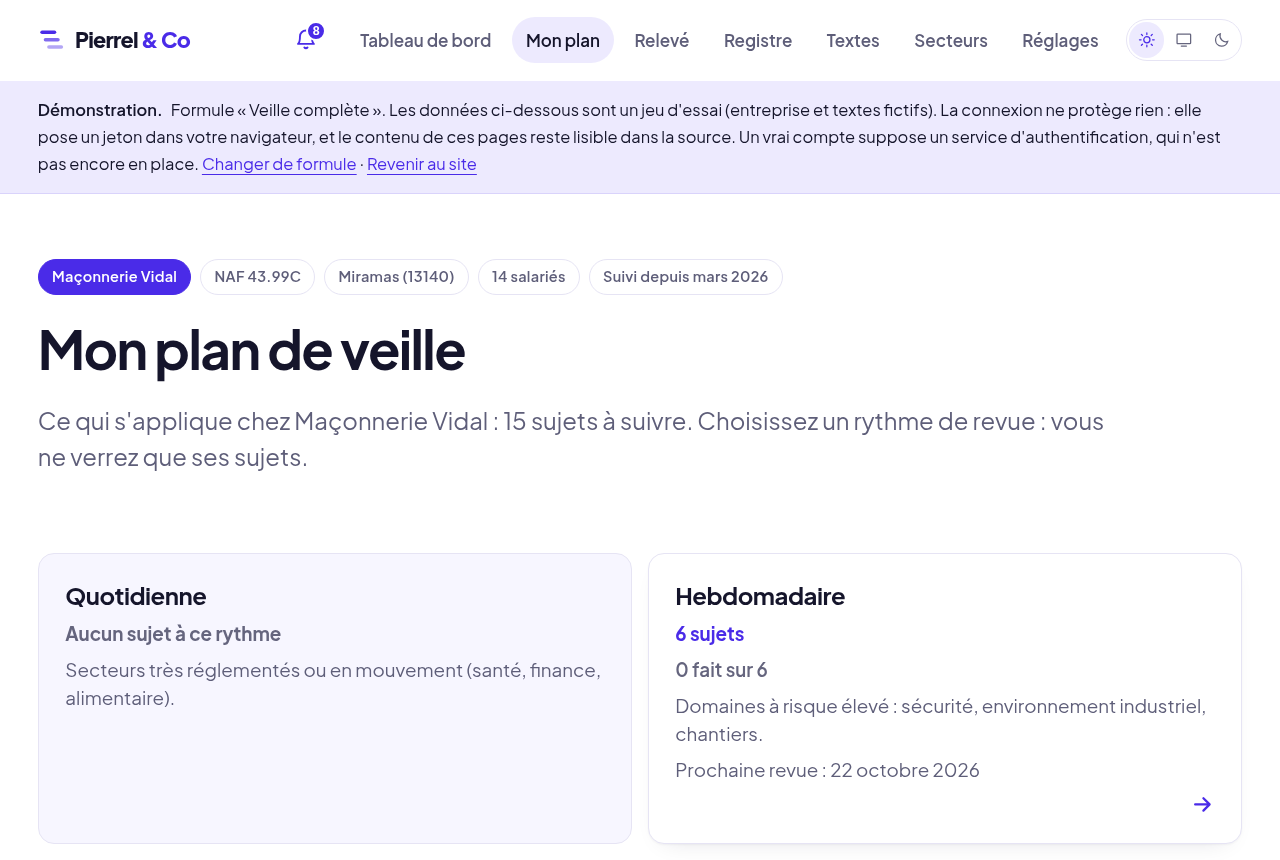
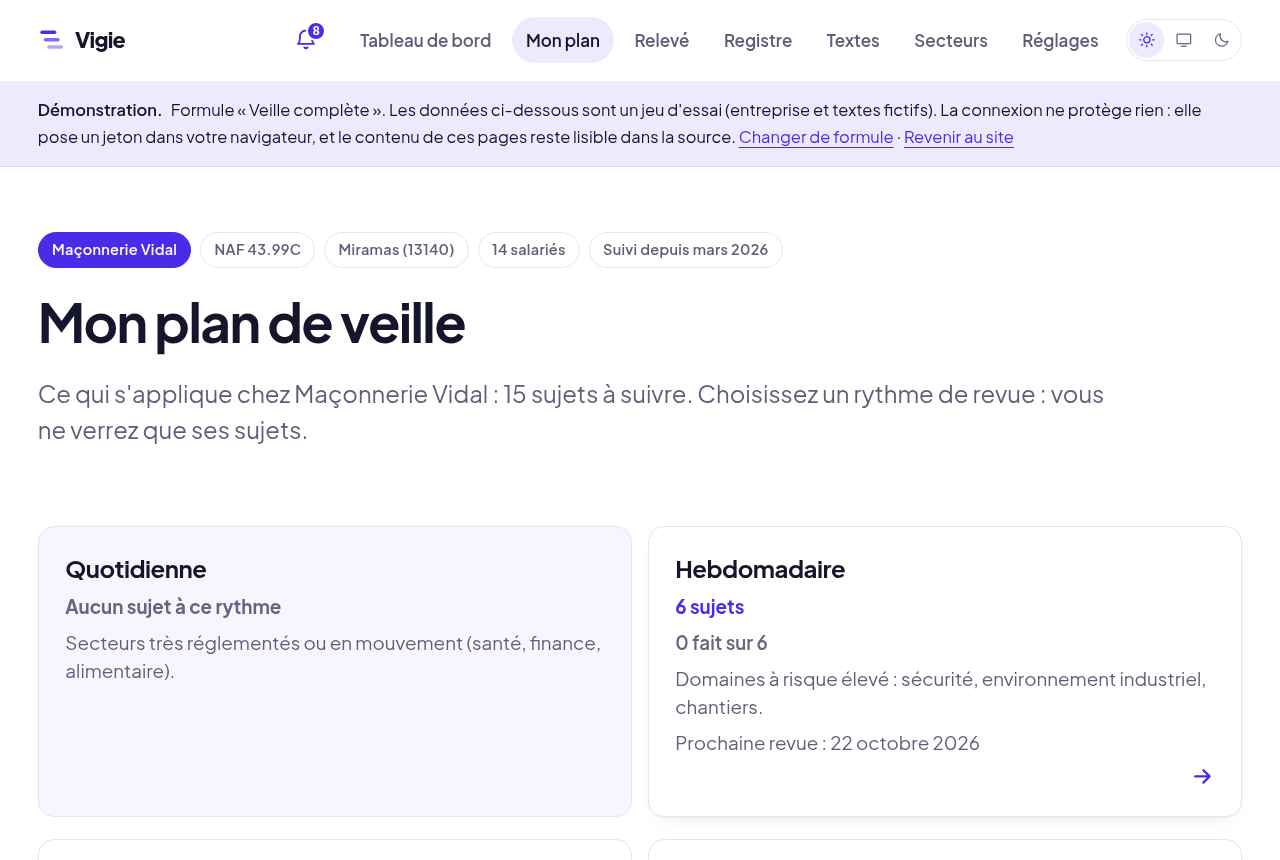
Lot 8 : le produit s'appelle Vigie ; l'offre consultant est en ligne
- SITE.nom devient « Vigie » ; Pierrel & Co (SITE.societe) n'est plus que
  l'éditeur, cité dans les pages légales, « Qui sommes-nous » et la FAQ, et
  marqué « société en cours de création ».
- Plus aucune présentation de cabinet : ni Istres, ni zone d'intervention,
  ni « conseil en organisation ». La caution métier est la personne :
  « conçu avec Clément Pierrel, consultant QSE et HSE en exercice ».
- Logo écrit (motMarque), application installée, captures de l'accueil,
  courriels du serveur (NOM, vérifié contre SITE.nom à la construction).
- L'offre consultant est allumée : consultants.html, le bloc de l'accueil, le
  lien du pied. Ses promesses à venir sont écrites au futur (contrat, base).

Claude-Session: https://claude.ai/code/session_018eHCodhqxxzNvWMueTAwHN

diff --git a/functions/api/oubli.js b/functions/api/oubli.js
@@ -5,7 +5,7 @@
    inconnu quelles adresses ont un compte. */
 import {
   lireJson, json, normaliseAdresse, adresseValide, lireCompte, estAdmin,
-  creeJeton, tropDeLiens, envoieCourriel, courrielPossible
+  creeJeton, tropDeLiens, envoieCourriel, courrielPossible, NOM
 } from "../../serveur/compte.mjs";
 
 const REPONSE = "Si un compte existe pour cette adresse, un courriel vient de partir avec un lien valable une heure. Pensez à regarder dans les indésirables.";
@@ -25,7 +25,7 @@ export async function onRequestPost(ctx) {
   try {
     await envoieCourriel(ctx.env, {
       a: adresse,
-      sujet: admin ? "Votre mot de passe administrateur — Pierrel & Co" : "Votre nouveau mot de passe — Pierrel & Co",
+      sujet: admin ? `Votre mot de passe administrateur — ${NOM}` : `Votre nouveau mot de passe — ${NOM}`,
       texte: `Bonjour,\n\nVous avez demandé à choisir un ${admin ? "mot de passe administrateur" : "nouveau mot de passe"} pour ${adresse}. Le lien ci-dessous est valable une heure, et ne sert qu'une fois.\n\nSi vous n'avez rien demandé, ignorez ce courriel : votre mot de passe actuel ne change pas.`,
       lien, bouton: "Choisir mon mot de passe"
     });

diff --git a/assets/entreprise.js b/assets/entreprise.js
@@ -1,5 +1,5 @@
 /* ==========================================================================
-   Pierrel & Co — mon entreprise, et mes alertes
+   Vigie — mon entreprise, et mes alertes
    --------------------------------------------------------------------------
    Ce que le visiteur saisit est gardé dans SON navigateur, et nulle part
    ailleurs : il n'y a pas de serveur. Rien n'est transmis, rien n'est partagé
@@ -463,7 +463,7 @@
           (champs.pdf.checked
             ? '<p class="courriel-pj">📎 2 fiches jointes, en PDF, prêtes à classer.</p>'
             : "") +
-          "<p>— Pierrel &amp; Co</p>" +
+          "<p>— " + echappe(document.body.getAttribute("data-nom") || "") + "</p>" +
         "</div>" +
         '<p class="courriel-pied">Envoi ' + echappe(quand) + " · " + echappe(seuil.toLowerCase()) + "</p>";
     }

diff --git a/assets/app.js b/assets/app.js
@@ -1,5 +1,5 @@
 /* ==========================================================================
-   Pierrel & Co — comportements de page
+   Vigie — comportements de page
    --------------------------------------------------------------------------
    Deux règles tenues partout :
    - sans ce fichier, le site reste complet et lisible. Les décalages de départ
@@ -499,7 +499,7 @@
       ].join("\n");
       merci.hidden = false;
       window.location.href = "mailto:" + adresse + "?subject=" +
-        encodeURIComponent("Mon avis sur Pierrel & Co") + "&body=" + encodeURIComponent(corps);
+        encodeURIComponent("Mon avis sur " + (document.body.getAttribute("data-nom") || "")) + "&body=" + encodeURIComponent(corps);
     });
   }
 

diff --git a/assets/amorce.js b/assets/amorce.js
@@ -1,5 +1,5 @@
 /* ==========================================================================
-   Pierrel & Co — l'amorce, avant tout rendu
+   Vigie — l'amorce, avant tout rendu
    --------------------------------------------------------------------------
    Ce fichier tenait dans la page, entre deux balises <script>. Il en est sorti
    pour une seule raison : la politique de sécurité du site interdit désormais

diff --git a/assets/avis.js b/assets/avis.js
@@ -1,5 +1,5 @@
 /* ==========================================================================
-   Pierrel & Co — la cloche des nouveaux textes
+   Vigie — la cloche des nouveaux textes
    --------------------------------------------------------------------------
    Ce que la cloche fait vraiment, aujourd'hui : elle compare la date du
    dernier texte lu, gardée dans ce navigateur, aux dates des textes relevés,

diff --git a/assets/compte.js b/assets/compte.js
@@ -1,5 +1,5 @@
 /* ==========================================================================
-   Pierrel & Co — les comptes, côté page
+   Vigie — les comptes, côté page
    --------------------------------------------------------------------------
    Trois pages : la connexion, « Bienvenue » (créer son mot de passe après le
    paiement) et « Cet écran n'est pas dans votre formule ». Elles parlent au

diff --git a/contenu/temoignages.js b/contenu/temoignages.js
@@ -1,5 +1,5 @@
 /* ==========================================================================
-   Pierrel & Co — les avis des clients
+   Vigie — les avis des clients
    --------------------------------------------------------------------------
    Ils défilent dans la barre « avis » de l'accueil. On n'y met que de vrais
    avis, reçus par le formulaire « Laisser votre avis » (ils arrivent par

diff --git a/assets/theme.js b/assets/theme.js
@@ -1,5 +1,5 @@
 /* ==========================================================================
-   Pierrel & Co — choix du thème
+   Vigie — choix du thème
    --------------------------------------------------------------------------
    Trois états : auto (on suit le système), clair, sombre. Le choix est gardé
    dans le navigateur et appliqué avant le premier rendu, sinon la page

diff --git a/contenu/paiement.js b/contenu/paiement.js
@@ -1,5 +1,5 @@
 /* ==========================================================================
-   Pierrel & Co — les liens de paiement Stripe
+   Vigie — les liens de paiement Stripe
    --------------------------------------------------------------------------
    C'est le SEUL fichier à remplir pour ouvrir l'abonnement payant.
 

diff --git a/assets/session.js b/assets/session.js
@@ -1,5 +1,5 @@
 /* ==========================================================================
-   Pierrel & Co — la « session » et la formule
+   Vigie — la « session » et la formule
    --------------------------------------------------------------------------
    AVERTISSEMENT, à lire avant de toucher à ce fichier.
 

diff --git a/sw.js b/sw.js
@@ -1,5 +1,5 @@
 /* ==========================================================================
-   Pierrel & Co — service worker
+   Vigie — service worker
    --------------------------------------------------------------------------
    Il sert à deux choses, et à rien d'autre :
 

diff --git a/.claude/skills/site-pierrel/SKILL.md b/.claude/skills/site-pierrel/SKILL.md
@@ -3,7 +3,14 @@ name: site-pierrel
 description: "Modifier et publier le site Pierrel & Co de ce dépôt (build.mjs, assets/site.css, assets/app.js, assets/theme.js, assets/session.js, contenu/, outils/captures.mjs, netlify.toml). À utiliser pour toute demande de changement de contenu, de mise en page, de style, d'animation, de navigation, de texte, d'accessibilité ou d'impression, et pour prévisualiser ou publier le site. Déclencheurs typiques : « change le texte de l'accueil », « ajoute une section », « l'animation rame », « corrige le menu », « le rendu est cassé sur téléphone », « comment je vois le site », « ajoute une page », « le site ne se met pas à jour »."
 ---
 
-# Le site Pierrel & Co
+# Le site Vigie (dépôt « site-pierrel »)
+
+Le produit s'appelle **Vigie** (`SITE.nom`). Pierrel & Co est l'éditeur
+(`SITE.societe`), cité seulement dans les pages légales, « Qui sommes-nous »
+et la question « Qui est derrière Vigie ? ». Ne jamais présenter le produit
+comme l'outil d'un cabinet de conseil (ni Istres, ni « cabinet ») : c'est ce
+qui ouvre le canal consultant. Logo écrit : `motMarque()`. L'offre consultant
+(`pageConsultants()`, `OFFRE_CONSULTANT`) est allumée par `SITE.offreConsultant`.
 
 **En ligne : https://pierrelaxel13-droid.github.io/site-avec-papa/** —
 GitHub Pages (`.github/workflows/publie.yml`) construit `main` à chaque envoi
